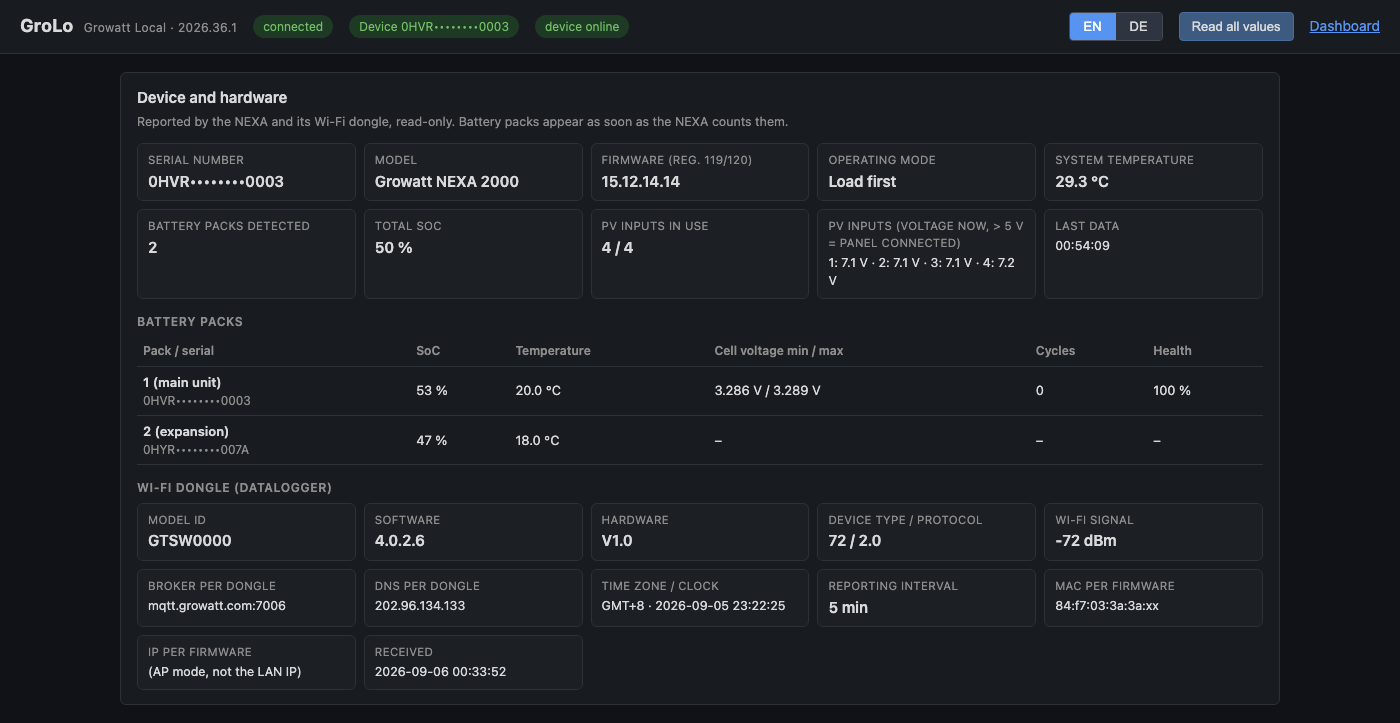
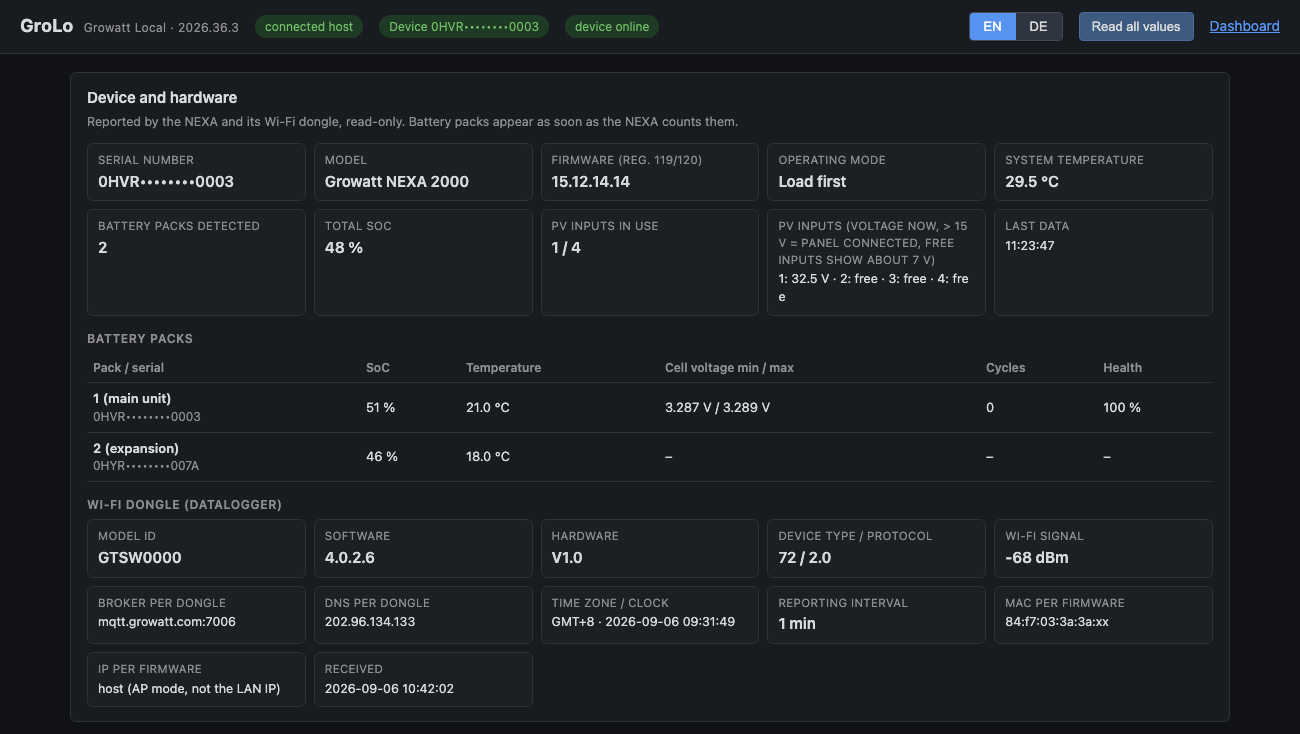
README: fresh full-width screenshots with live data (serial numbers masked)
Claude-Session: https://claude.ai/code/session_01G7itcPsHBNdmMS3SzQs72S

diff --git a/README.md b/README.md
@@ -7,11 +7,31 @@ an optional, switchable relay to the Growatt cloud.
 
 Version **2026.36.3** · Runs on any host with Docker (developed on macOS, tested with NEXA 2000 firmware 4.0.2.6 and two battery packs).
 
-| GroLo settings page | Grafana dashboard |
-|---|---|
-| ![GroLo device and hardware](docs/screenshot-grolo-device.png) | ![Grafana](docs/screenshot-grafana.png) |
+## Screenshots
 
-![GroLo settings](docs/screenshot-grolo-settings.png)
+**Grafana dashboard** (English, German available): live tiles, power history and state of charge.
+
+![Grafana: live tiles and power history](docs/screenshot-grafana-live.png)
+
+Energy per day, where today's PV energy went and where the house energy came from.
+
+![Grafana: energy](docs/screenshot-grafana-energy.png)
+
+PV strings with detected inputs, temperatures, cell voltages, packs, firmware and dongle.
+
+![Grafana: strings, battery and technical](docs/screenshot-grafana-strings-battery.png)
+
+**GroLo settings page**: device and hardware, battery packs, dongle.
+
+![GroLo: device and hardware](docs/screenshot-grolo-device.png)
+
+Operating mode, battery limits, output and operating switches.
+
+![GroLo: settings](docs/screenshot-grolo-settings.png)
+
+Time slots, cloud relay with status, dongle settings and log.
+
+![GroLo: slots, cloud, dongle](docs/screenshot-grolo-slots-cloud.png)
 
 ## How it works
 
@@ -233,7 +253,7 @@ grafana/provisioning/        data source and dashboard provider
 settings-ui/                 GroLo settings page (static, MQTT over WebSocket)
 grobro/sidecar/              dongle_info.py, raw_registers.py, cloud_gate.py
 grobro/registers/            extended NEXA register map
-docs/                        screenshots
+docs/                        screenshots (serial numbers masked)
 VERSION                      2026.36.3
 ```
 
